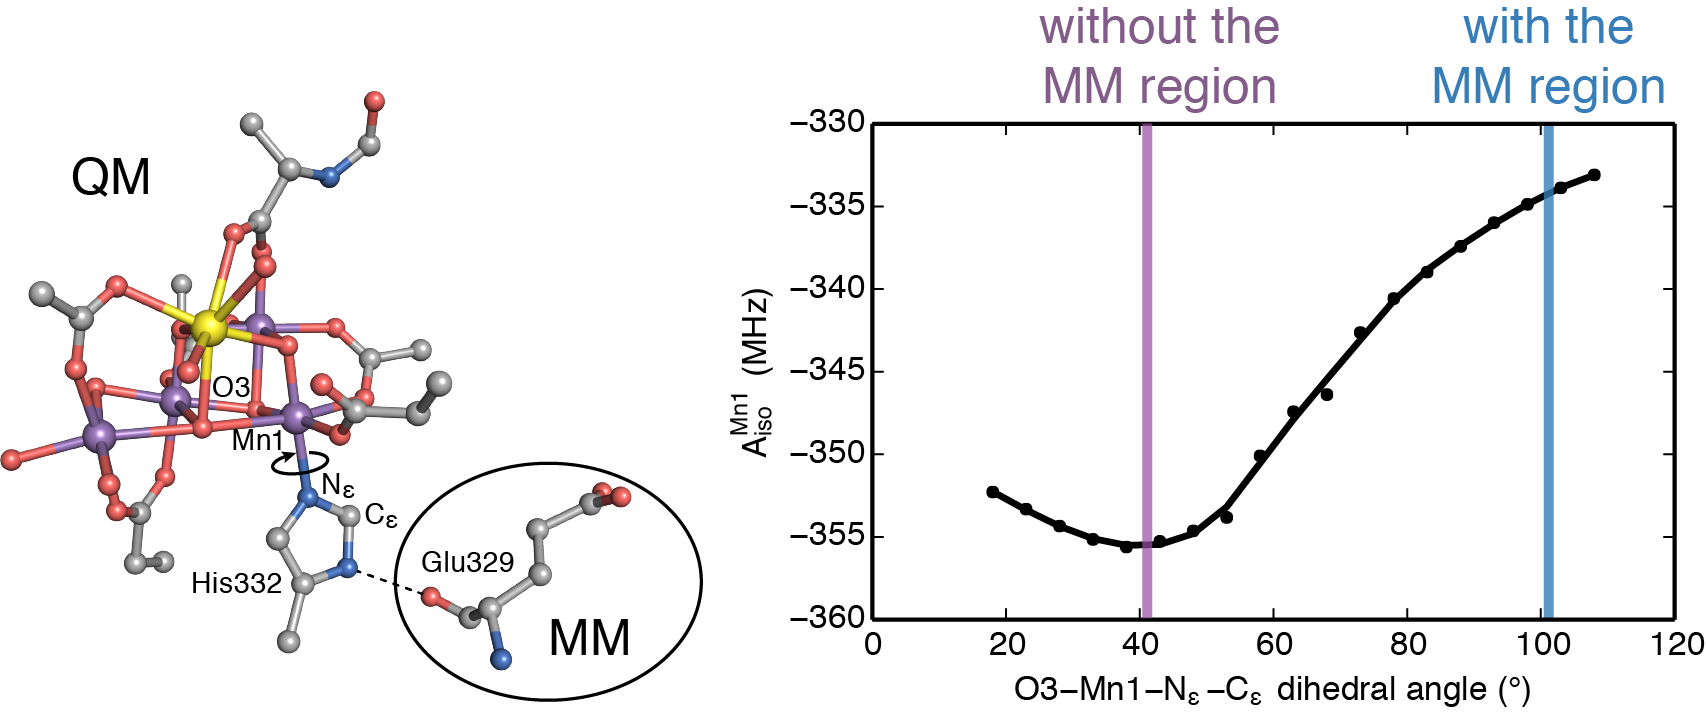
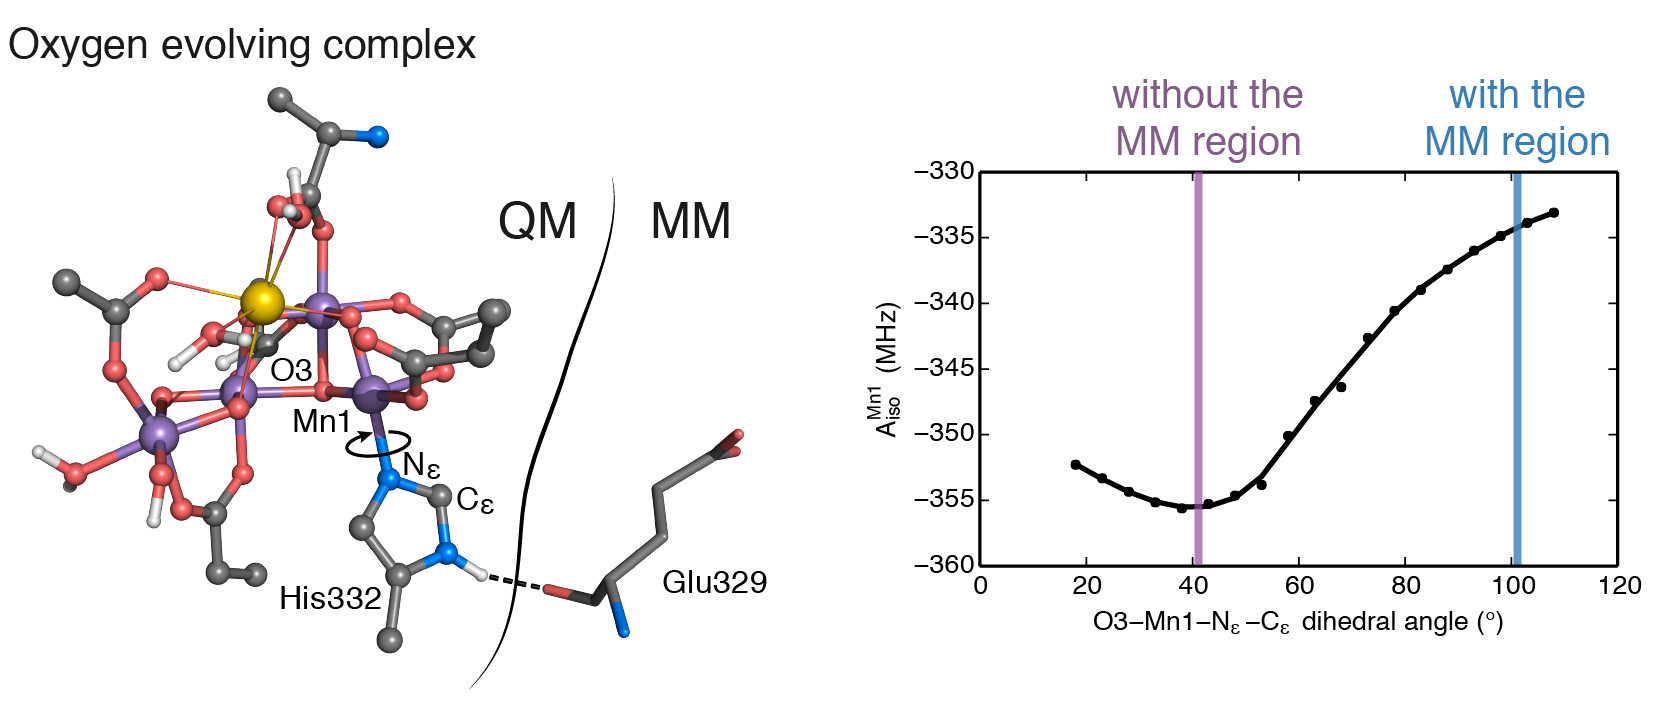
Updated site content

diff --git a/index.html b/index.html
@@ -15,37 +15,54 @@
 <body>
 <div class="wrapper">
     <header>
-        <img src="files/headshot.png" style="width:170px; margin: 5% 0 0 5%"></img>
-        <br></br>
-        <h1>Marius Retegan</h1>
-        <p style="line-height:80%;">
-        <a href="http://www.cec.mpg.de" target="_blank">MPI for Chemical Energy Conversion</a>
+        <!-- <img src="files/headshot.png" style="width:170px; margin: 5% 0 0 5%"></img> -->
+        <!-- <br></br> -->
+        <!-- <h1>Marius Retegan</h1> -->
+        <!-- <p> -->
+        <!-- Max Planck research fellow at the<br> -->
+        <!-- <a href="http://www.cec.mpg.de" target="_blank">MPI for Chemical Energy Conversion</a><br> -->
+        <!-- Stiftstr. 34&ndash;36  -->
+        <!-- 45470 Mülheim an der Ruhr, Germany -->
+        <!-- marius.retegan (at) cec.mpg.de<br> -->
+        <!-- +49 (0) 208 306 3588 -->
         <!-- </p> -->
-        <!-- <p style="line-height:80%;"> -->
-        <br></br>
-        Stiftstr. 34&ndash;36 
-        <br></br>
-        45470 Mülheim an der Ruhr, Germany
-        <br></br>
-        marius.retegan (at) cec.mpg.de
-        <br></br>
-        +49 (0) 208 306 3588
-        </p>
     </header>
 
     <section>
-
         <h1><a id="research-interests" class="anchor" href="#research-interests" aria-hidden="true"></a>Research Interests</h1>
         <hr></hr>
-        <!-- <h2>Biological Water Oxidation</h2> -->
-        <p>Lorem ipsum dolor sit amet, consectetur adipiscing elit. Etiam tempor neque quis sagittis porta. Integer condimentum, nunc in porta porta, turpis dui egestas ex, eget auctor orci ex non dui. Morbi tempor nulla vitae nulla dignissim pretium. Donec ante mi, tempus non ligula ut, placerat consequat risus. Vivamus ac dolor urna. Aliquam sit amet suscipit neque, placerat hendrerit sem. Suspendisse eu placerat justo, eu porta tortor. Maecenas vitae sem at orci faucibus dictum. In interdum finibus tellus, sit amet varius nisl efficitur non.
-        <br></br>
-        <img class="center" src="files/psii_hfc_qmmm.png"></img>
-        <br></br>
-        Vivamus ultrices mi a sapien viverra feugiat sit amet sed nisi. Sed malesuada pellentesque lacus eu condimentum. Vestibulum malesuada nunc rutrum pretium tristique. Vestibulum molestie vestibulum libero at elementum. Suspendisse potenti. Nunc non elit sed ligula rhoncus vehicula quis at augue. Vestibulum rhoncus elit sed nisi venenatis congue. Phasellus tempus et turpis a accumsan.
-        <br></br>
-        Mauris euismod magna sit amet sem fringilla, cursus egestas tortor placerat. Sed in mattis odio. Nullam venenatis ex a lectus ullamcorper aliquet. Cras eleifend sagittis dolor nec gravida. Donec id enim accumsan, mattis leo quis, hendrerit sem. Nullam vitae erat sed velit tincidunt feugiat at vitae metus. Maecenas pellentesque sapien in condimentum tempor. In consequat sem ipsum, in finibus urna mattis a. Ut posuere aliquam ante. Aliquam sagittis ut nisl consequat volutpat. Vestibulum ante ipsum primis in faucibus orci luctus et ultrices posuere cubilia Curae; Aliquam erat volutpat.
+
+        <h2>Biomolecular Simulations</h2>
+        <p>
+        Proteins are central to a large number of chemical reactions in living organisms. They display an astonishing range of functions, a diversity made possible partially by the presence of cofactors such as metal atoms and clusters that contain metal and non-metal atoms. My primary research interest is geared towards understanding the electronic structure, the magnetic and spectroscopic properties and the chemical reactivity of these complex biological systems though computational chemistry. Especially suited are the multiscale methods in particular hybrid quantum mechanics and molecular mechanics (QM/MM) methods that combine molecular modeling using inexpensive classical potentials with elaborate first-principle treatments of the electronic structure.
         </p>
+        <figure>
+            <img class="center" src="files/methods.png"></img>
+            <figcaption>Range of computational methods that I employ in my current research</figcaption>
+        </figure>
+        <p>
+        Biological systems containing open-shell transition metal centers presents significant challenges for theory. In addition to the presence of unpaired electrons, the difficulty is complicated by the necessity of including the protein environment that embeds the metallic centers and precisely tunes their chemical and spectroscopic properties. Illustrative in this respect are a number of studies that demonstrate the effect of the second sphere amino acids in the hydrolysis of phosphomonoesters catalyzed by the purple acid phosphates,<sup>16</sup> the spectroscopic properties of an iron-containing azurin,<sup>9</sup> or the specific influence of hydrogen bond interaction on the spectroscopic signature of the natural water splitting catalyst.<sup>7</sup>
+        </p>
+        <figure>
+            <img class="center" src="files/psii_hfc_qmmm.png"></img>
+            <figcaption>A hydrogen-bonding interaction orients the His332 residue, which in turn determines the hyperfine coupling constant of the Mn1 ion from the oxygen evolving complex, the active site of photosystem II.</figcaption>
+        </figure>
+        <br>
+
+        <h2>Theoretical Spectroscopy and Method Development</h2>
+        <p>
+        Another topic of interest in my research is the development of theoretical methods for the prediction of spectroscopic parameters in open-shell system. In a recent contribution,<sup>2</sup> a novel approach has been introduced for the accurate calculation of the on-site zero field splitting in polynuclear metal clusters of arbitrary nuclearity. The method termed local complete active space configuration interaction (L-CASCI) represents a multireference <em>ab initio</em> calculation within an active space composed of local orbitals of the center of interest. The approach is particularly efficient and can be easily applied to clusters of any size and topology at no additional computational costs.
+        </p>
+
+        <figure>
+            <img class="center" src="files/local_casci_pivoh.png"></img>
+            <figcaption>On-site zero-field splitting of the Mn(III) ion from a mixed valence complex calculated using the L-CASCI approach.</figcaption>
+        </figure>
+        
+        <p>
+        On the development side, I focus on bringing these methods to the freely available ORCA software. 
+        </p>
+        <br>
 
         <h1><a id="publications" class="anchor" href="#publications" aria-hidden="true"></a>Publications</h1>
         <hr></hr>

diff --git a/stylesheets/styles.css b/stylesheets/styles.css
@@ -8,8 +8,7 @@ body {
 }
 
 h1, h2, h3, h4, h5, h6 {
-  color:#222;
-  margin:0 0 20px;
+  margin:0 0 10px;
 }
 
 p, ul, ol, table, pre, dl {
@@ -26,6 +25,7 @@ h1, h2, h3 {
 
 h1 {
   font-size:28px;
+  color:#222;
 }
 
 h2 {
@@ -100,17 +100,26 @@ img {
 }
 
 img.center {
-  max-width:80%;
-  margin-right: 10%;
-  margin-left: 10%;
+  max-width:100%;
+  /* margin-right: 10%; */
+  /* margin-left: 10%; */
   border-radius: 2px;
   /* padding: 10px; */
   /* box-shadow: 0 3px 6px rgba(0, 0, 0, 0.9); */
 } 
 
+figcaption {
+  width:100%;
+  font-size: 90%;
+  /* margin-left: 5%; */
+  /* padding: 5px; */
+  border-top:1px solid #e5e5e5;
+  text-align: center;
+}
+
 ol {
-    padding: 0px;
-    margin: 0 0 0 15px;
+  padding: 0px;
+  margin: 0 0 0 15px;
 }
 
 header {
